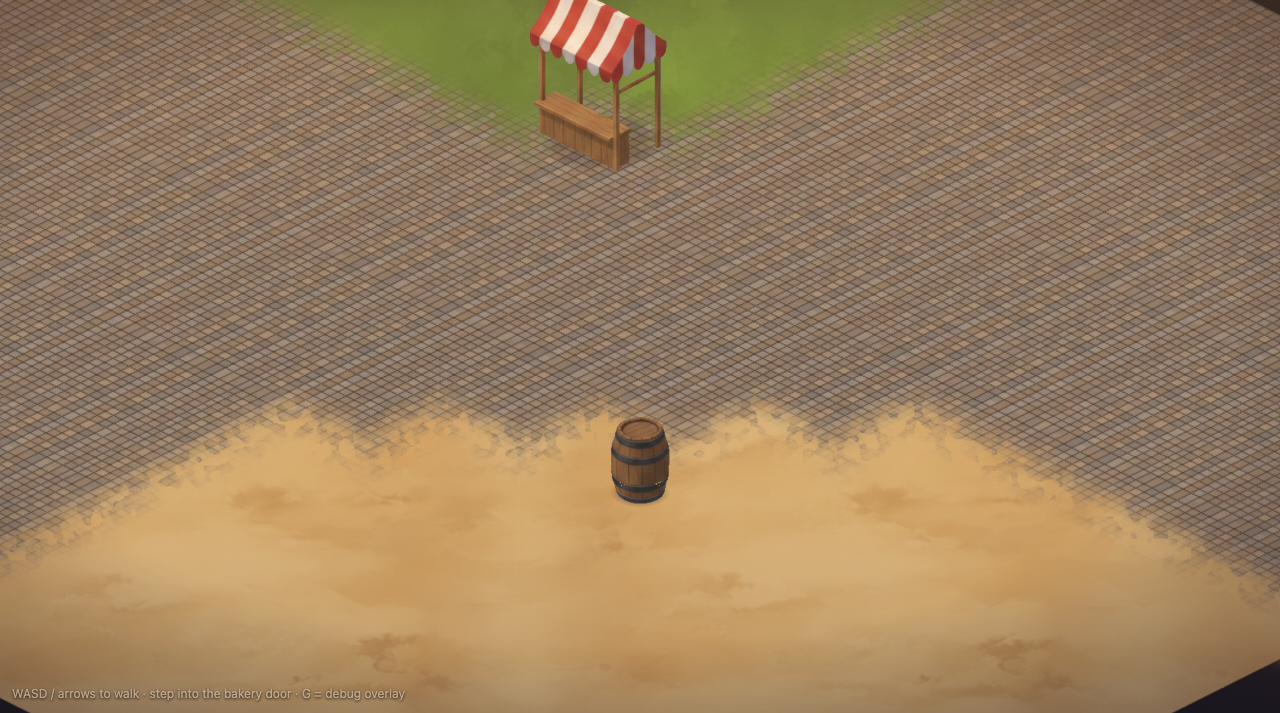
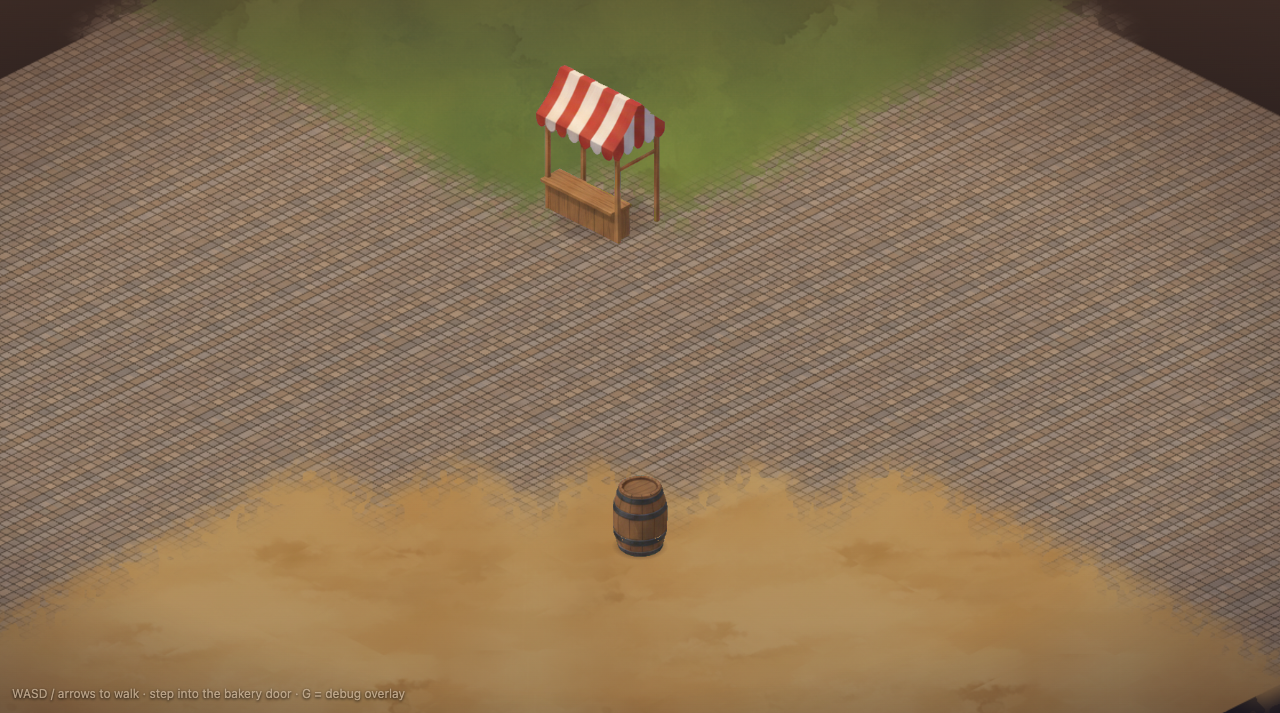
Ground round 3.1: darken village base to match forest-B, re-render cobble B/C, sign off ledge
Director feedback on the ground-picker round-3 village base: the demo grass read
lighter than the live forest-B it was derived from (an unintended saturation/value
lift), and the dirt/sand wanted to be darker brown.

- tools/derive_village_base.py: programmatic HSV re-derivation of the village demo
  base from the LIVE forest-B textures (read-only), no lift.
- Grass: re-derived from tex-forestfloor, green push kept, saturation held at the
  floor's level and value pulled so mean perceived luminance matches the floor
  exactly (0.399 == 0.399; was +13.7% brighter / +12.5% sat). Overwrites
  candidates/village-grass-forestB.png.
- Dirt: tex-forestpath darkened -15% value, warmth kept, faint sat nudge -> new
  candidates/village-dirt-forestpathdark.png. Live scene textures untouched.
- Re-rendered cobble B/C demo shots on the darker base (settled captures); A discarded.
- ground-picker.html: village = B/C rows on the new base + a harmony strip proving
  village-grass vs live-forest-grass sit in the same value family; ledge SIGNED OFF.

Claude-Session: https://claude.ai/code/session_01NdYwCh5HCgBzg7uoAJvghh

diff --git a/public/ground-picker.html b/public/ground-picker.html
@@ -28,7 +28,7 @@
   code { background:#2a2016; padding:1px 5px; border-radius:4px; color:#ffd98a; }
 </style>
 <h1>Emberbrook — ground system V3 picker</h1>
-<div class="pick">Two picks left: the <b>village cobble</b> (A / B / C) and your <b>sign-off on the stone-ledge treatment</b> (the Dellhollow section). Everything else is decided and live.</div>
+<div class="pick">One pick left: the <b>village cobble</b> (B or C — A discarded). The <b>stone-ledge treatment is now SIGNED OFF</b>. Everything else is decided and live.</div>
 
 <div class="adopted">
   <b>Applied to the live world this round (your round-2 decisions):</b><br>
@@ -36,11 +36,11 @@
   · <b>Dellhollow WATER = candidate B</b> — now live as <code>tex-water</code>; the faint quadrant seam from the tileable pass was healed (gradient-domain), and the stray warm reflection toned down.<br>
   · <b>Dellhollow DECK = candidate C's finish</b>, darkened ~10% value + lightly desaturated per your "a bit too bright" note — now live as <code>tex-deck</code>.<br>
   · <b>Interior PLANK = candidate C</b> — now live as <code>tex-plank</code>; all three interiors (bakery, lake cottage, keeper's) switched off the legacy <code>f-plank</code>. Candidate A is registered as <code>g-plank-bright</code> (available for future bright rooms, no scene uses it yet).<br>
-  · <b>NEW — stone-LEDGE (masonry) platform class</b>: constructed cut-stone quay / lock walls now meet water with a HARD boundary and an auto stone FACE dropping to the waterline (no stilts, no water underneath, no blend) — see the Dellhollow section. Applied live in <b>Lock Five</b>. Natural rock (<code>g-cliff</code>) still keeps its soft edge.
+  · <b>stone-LEDGE (masonry) platform class — SIGNED OFF this round</b>: constructed cut-stone quay / lock walls now meet water with a HARD boundary and an auto stone FACE dropping to the waterline (no stilts, no water underneath, no blend) — see the Dellhollow section. Applied live in <b>Lock Five</b>. Natural rock (<code>g-cliff</code>) still keeps its soft edge.
 </div>
 <div class="sub">Drive it yourself: <a style="color:#e0a94e" href="/iso-proto.html?scene=lockfive">Lock Five (the stone ledge, live)</a>
   · <a style="color:#e0a94e" href="/iso-proto.html?scene=_groundtest-ledge-hard&hidechar=1&zoom=0.72&cam=3.5,3.5">ledge demo</a>
-  · <a style="color:#e0a94e" href="/iso-proto.html?scene=_groundtest-village-cobA&hidechar=1&zoom=0.85&cam=9,8">village cobble demo</a>.</div>
+  · <a style="color:#e0a94e" href="/iso-proto.html?scene=_groundtest-village-cobB&hidechar=1&zoom=0.85&cam=9,8">village cobble demo</a>.</div>
 
 <h2>FOREST <span class="done">DECIDED · B live</span></h2>
 <div class="note">Candidate B (soft-painterly, muted olive &amp; warm umber) is live as <code>tex-forestfloor</code> / <code>tex-forestpath</code>. No change this round.</div>
@@ -53,32 +53,30 @@
   </div>
 </div>
 
-<h2>VILLAGE — cobble, re-rendered on the unified forest base <span class="open">PICK ONE</span></h2>
-<div class="note">Per your "the town is built on the same ground as the forest": the base is now unified with the forest — <b>grass derived from the forest-B palette</b> (a green push off the same soft-painterly floor) and the <b>dirt/sand is literally <code>tex-forestpath</code></b> (same file as the forest). All three cobbles are re-rolled at an <b>honest ~0.2&nbsp;m sett</b> (round&nbsp;2 rendered them chainmail-tiny — <code>patternScale</code> corrected per candidate) and sampled through the iso sampler so the courses run along the grid. Grass corner + dirt corner for sibling context; stall + barrel for scale. <b>Pick one cobble.</b></div>
+<h2>VILLAGE — cobble, re-rendered on the DARKENED harmonized forest base <span class="open">PICK ONE — B or C</span></h2>
+<div class="note">You flagged the round-3 base as reading <b>lighter than the live forest-B it was derived from</b> — correct: the derivation had applied an unintended saturation/value LIFT. Rebuilt this round, programmatic HSV, <b>no lift</b>:<br>
+· <b>Grass</b> = re-derived from the live <code>tex-forestfloor</code> (forest B): the green push kept, but saturation held at the floor's own level and value pulled so the grass's <b>mean perceived luminance now MATCHES the forest floor exactly (0.399 = 0.399)</b> — genuinely the same darkness family. (Was +13.7% brighter, +12.5% saturation.)<br>
+· <b>Dirt/sand</b> = <code>tex-forestpath</code> darkened one step (−15% value, warmth kept, faint saturation nudge so it reads as darker <b>brown</b> not pale sand) → new <code>village-dirt-forestpathdark</code>. Live forest textures untouched.<br>
+The harmony strip below makes the check visible. Cobbles A/B/C keep the round-3 <b>honest ~0.2&nbsp;m sett</b> (<code>patternScale</code> per candidate), dithered blend, sampled along the grid. <b>A is discarded — pick B or C.</b></div>
+<figure style="margin:6px 0 14px"><img src="assets/iso/review/ground/village-forest-harmony.png" style="width:820px;max-width:96%;border:2px solid #9c7a4c;border-radius:8px"><figcaption>harmony check — the NEW village grass matches the live forest-B floor's value (0.399); the rejected round-3 grass sat brighter (0.454)</figcaption></figure>
 <div class="grid">
-  <div class="cand">
-    <div class="badge">A</div>
-    <figure class="wide"><img src="assets/iso/review/ground/gv2-cob-A.jpg"><figcaption>A — rounded warm cobbles, honest ~0.2 m</figcaption></figure>
-    <div class="swatches"><img class="sw" src="assets/iso/blocks/candidates/gv2-cobbleA.png" title="cobble"><img class="sw" src="assets/iso/blocks/candidates/village-grass-forestB.png" title="grass (forest-derived)"><img class="sw" src="assets/iso/blocks/tex-forestpath.png" title="dirt = forestpath"><div class="mats">cobble · grass · dirt</div></div>
-    <div class="desc">Small rounded cobbles, soft greige / warm taupe, tidy courses. Reads biggest / calmest of the three.</div>
-  </div>
   <div class="cand">
     <div class="badge">B</div>
     <figure class="wide"><img src="assets/iso/review/ground/gv2-cob-B.jpg"><figcaption>B — tight squarish setts</figcaption></figure>
-    <div class="swatches"><img class="sw" src="assets/iso/blocks/candidates/gv2-cobbleB.png" title="cobble"><img class="sw" src="assets/iso/blocks/candidates/village-grass-forestB.png" title="grass (forest-derived)"><img class="sw" src="assets/iso/blocks/tex-forestpath.png" title="dirt = forestpath"><div class="mats">cobble · grass · dirt</div></div>
+    <div class="swatches"><img class="sw" src="assets/iso/blocks/candidates/gv2-cobbleB.png" title="cobble"><img class="sw" src="assets/iso/blocks/candidates/village-grass-forestB.png" title="grass (forest-derived, no lift)"><img class="sw" src="assets/iso/blocks/candidates/village-dirt-forestpathdark.png" title="dirt = forestpath darkened −15%"><div class="mats">cobble · grass · dirt</div></div>
     <div class="desc">Small squarish setts in even courses, warm grey-brown, faint mortar seams. Busiest read.</div>
   </div>
   <div class="cand">
     <div class="badge">C</div>
     <figure class="wide"><img src="assets/iso/review/ground/gv2-cob-C.jpg"><figcaption>C — worn river cobbles</figcaption></figure>
-    <div class="swatches"><img class="sw" src="assets/iso/blocks/candidates/gv2-cobbleC.png" title="cobble"><img class="sw" src="assets/iso/blocks/candidates/village-grass-forestB.png" title="grass (forest-derived)"><img class="sw" src="assets/iso/blocks/tex-forestpath.png" title="dirt = forestpath"><div class="mats">cobble · grass · dirt</div></div>
+    <div class="swatches"><img class="sw" src="assets/iso/blocks/candidates/gv2-cobbleC.png" title="cobble"><img class="sw" src="assets/iso/blocks/candidates/village-grass-forestB.png" title="grass (forest-derived, no lift)"><img class="sw" src="assets/iso/blocks/candidates/village-dirt-forestpathdark.png" title="dirt = forestpath darkened −15%"><div class="mats">cobble · grass · dirt</div></div>
     <div class="desc">Smooth worn river cobbles, warm sandy-greige &amp; soft ochre-brown, quiet warm flecks.</div>
   </div>
 </div>
 
-<h2>DELLHOLLOW — now-live water + deck, and the new STONE LEDGE <span class="open">SIGN OFF THE LEDGE</span></h2>
+<h2>DELLHOLLOW — now-live water + deck, and the STONE LEDGE <span class="done">LEDGE SIGNED OFF</span></h2>
 <div class="note">Top row: the <b>now-live</b> Dellhollow materials on the clean deck demo — healed water-B, darkened deck-C pier (fascia + stilts, water under the lip), and the natural cliff (which correctly keeps its soft edge — it is natural gorge rock, not construction).<br>
-Bottom row is the design catch you flagged: <b>CONSTRUCTED stone must NOT dissolve into water like a beach.</b> The new <code>g-ledge</code> masonry class gives a hard boundary and a dressed cut-stone wall face (matching the lock-wall assets) dropping to the waterline — no stilts, no water underneath, no blend. Compare it against the old soft blend. It is live now in Lock Five. <b>Sign off the ledge treatment (or tell me to adjust wall height / stone tone).</b></div>
+Bottom row is the design catch you flagged: <b>CONSTRUCTED stone must NOT dissolve into water like a beach.</b> The new <code>g-ledge</code> masonry class gives a hard boundary and a dressed cut-stone wall face (matching the lock-wall assets) dropping to the waterline — no stilts, no water underneath, no blend. Compare it against the old soft blend. It is live now in Lock Five. <b>SIGNED OFF this round — no further action.</b></div>
 <div class="grid">
   <div class="cand">
     <div class="badge live">LIVE</div>

diff --git a/tools/derive_village_base.py b/tools/derive_village_base.py
@@ -1,0 +1,123 @@
+#!/usr/bin/env python3
+"""[village-base] Programmatic HSV derivation of the Emberbrook village-demo ground base
+from the LIVE forest-B textures, so the village genuinely reads as "built on the same
+ground as the forest".
+
+Round-3 derivation (the version the director rejected) applied an unintended
+saturation/value LIFT: the green push landed the grass +13.7% brighter (perceived
+luminance) than the live forest floor, +12.5% saturation, +5.6% value. This tool
+removes that lift.
+
+GRASS  = tex-forestfloor (forest B) hue-rotated toward the approved forest-grass green,
+         saturation held at the floor's own level (NO lift), and value pulled down so the
+         grass's mean perceived luminance MATCHES the forest floor exactly. Same darkness
+         family as forest B.
+DIRT   = tex-forestpath darkened one step (~13% value), warmth preserved (hue held,
+         saturation nudged so it reads as darker BROWN rather than pale sand).
+
+Reads live textures read-only; writes only demo-candidate files. Does NOT touch any
+live scene texture.
+"""
+import numpy as np
+from PIL import Image
+import os
+
+ROOT = os.path.join(os.path.dirname(__file__), '..')
+BLK = os.path.join(ROOT, 'public/assets/iso/blocks')
+CAND = os.path.join(BLK, 'candidates')
+
+FLOOR = os.path.join(BLK, 'tex-forestfloor.png')   # live forest-B floor (source, read-only)
+PATH  = os.path.join(BLK, 'tex-forestpath.png')    # live forest-B path  (source, read-only)
+
+GRASS_OUT = os.path.join(CAND, 'village-grass-forestB.png')
+DIRT_OUT  = os.path.join(CAND, 'village-dirt-forestpathdark.png')
+
+REL_LUM = np.array([0.2126, 0.7152, 0.0722], np.float32)
+
+
+def load(p):
+    return np.asarray(Image.open(p).convert('RGB'), np.float32) / 255.0
+
+
+def rgb_to_hsv(rgb):
+    r, g, b = rgb[..., 0], rgb[..., 1], rgb[..., 2]
+    mx = rgb.max(-1); mn = rgb.min(-1); d = mx - mn
+    v = mx
+    s = np.where(mx > 1e-6, d / np.clip(mx, 1e-6, None), 0.0)
+    h = np.zeros_like(mx)
+    dd = np.clip(d, 1e-6, None)
+    mask = d > 1e-6
+    rc = ((g - b) / dd) % 6
+    gc = (b - r) / dd + 2
+    bc = (r - g) / dd + 4
+    h = np.where(mx == r, rc, np.where(mx == g, gc, bc))
+    h = np.where(mask, (h / 6.0) % 1.0, 0.0)
+    return np.stack([h, s, v], -1)
+
+
+def hsv_to_rgb(hsv):
+    h, s, v = hsv[..., 0], hsv[..., 1], hsv[..., 2]
+    i = np.floor(h * 6).astype(int)
+    f = h * 6 - i
+    p = v * (1 - s); q = v * (1 - f * s); t = v * (1 - (1 - f) * s)
+    i = i % 6
+    r = np.select([i == 0, i == 1, i == 2, i == 3, i == 4, i == 5], [v, q, p, p, t, v])
+    g = np.select([i == 0, i == 1, i == 2, i == 3, i == 4, i == 5], [t, v, v, q, p, p])
+    b = np.select([i == 0, i == 1, i == 2, i == 3, i == 4, i == 5], [p, p, t, v, v, q])
+    return np.clip(np.stack([r, g, b], -1), 0, 1)
+
+
+def mean_lum(rgb):
+    return float((rgb @ REL_LUM).mean())
+
+
+# ---------- GRASS: green push off the floor, no lift, luminance matched ----------
+floor = load(FLOOR)
+floor_lum = mean_lum(floor)
+fh = rgb_to_hsv(floor)
+
+# Keep the approved green: floor median hue ~41deg -> grass ~79deg (delta +38deg).
+# Constant shift preserves the floor's low-frequency hue mottling.
+HUE_SHIFT_DEG = 38.0
+gh = fh.copy()
+gh[..., 0] = (gh[..., 0] + HUE_SHIFT_DEG / 360.0) % 1.0
+# Saturation held at the floor's own level (NO lift). value untouched here.
+grass = hsv_to_rgb(gh)
+
+# Green rotation raises perceived luminance (G is the peak-luminance channel).
+# Pull V down by a single factor so the grass's mean luminance == the floor's.
+target = floor_lum
+lo, hi = 0.4, 1.0
+for _ in range(40):
+    mid = (lo + hi) / 2
+    gh2 = gh.copy(); gh2[..., 2] = np.clip(gh2[..., 2] * mid, 0, 1)
+    if mean_lum(hsv_to_rgb(gh2)) > target:
+        hi = mid
+    else:
+        lo = mid
+VFAC = (lo + hi) / 2
+gh[..., 2] = np.clip(gh[..., 2] * VFAC, 0, 1)
+grass = hsv_to_rgb(gh)
+Image.fromarray((grass * 255 + 0.5).astype(np.uint8)).save(GRASS_OUT)
+
+gstat = rgb_to_hsv(grass)
+print(f"GRASS  hueShift=+{HUE_SHIFT_DEG:.0f}deg  V*={VFAC:.3f}")
+print(f"  floor: lum={floor_lum:.3f} S={fh[...,1].mean():.3f} V={fh[...,2].mean():.3f}")
+print(f"  grass: lum={mean_lum(grass):.3f} S={gstat[...,1].mean():.3f} V={gstat[...,2].mean():.3f}"
+      f"   (was lum=0.454 S=0.582 V=0.495 lifted)")
+
+# ---------- DIRT: darken the forest path one step, keep warmth ----------
+path = load(PATH)
+ph = rgb_to_hsv(path)
+DIRT_VFAC = 0.85           # 15% value darken (top of the 8-15% window; source path is very light)
+DIRT_SFAC = 1.10           # saturation nudge so it reads darker BROWN, not pale grey sand
+dh = ph.copy()
+dh[..., 1] = np.clip(dh[..., 1] * DIRT_SFAC, 0, 1)
+dh[..., 2] = np.clip(dh[..., 2] * DIRT_VFAC, 0, 1)
+dirt = hsv_to_rgb(dh)
+Image.fromarray((dirt * 255 + 0.5).astype(np.uint8)).save(DIRT_OUT)
+
+dstat = rgb_to_hsv(dirt)
+print(f"DIRT   V*={DIRT_VFAC:.2f} ({(1-DIRT_VFAC)*100:.0f}% darker)  S*={DIRT_SFAC:.2f}")
+print(f"  path: lum={mean_lum(path):.3f} S={ph[...,1].mean():.3f} V={ph[...,2].mean():.3f}")
+print(f"  dirt: lum={mean_lum(dirt):.3f} S={dstat[...,1].mean():.3f} V={dstat[...,2].mean():.3f}")
